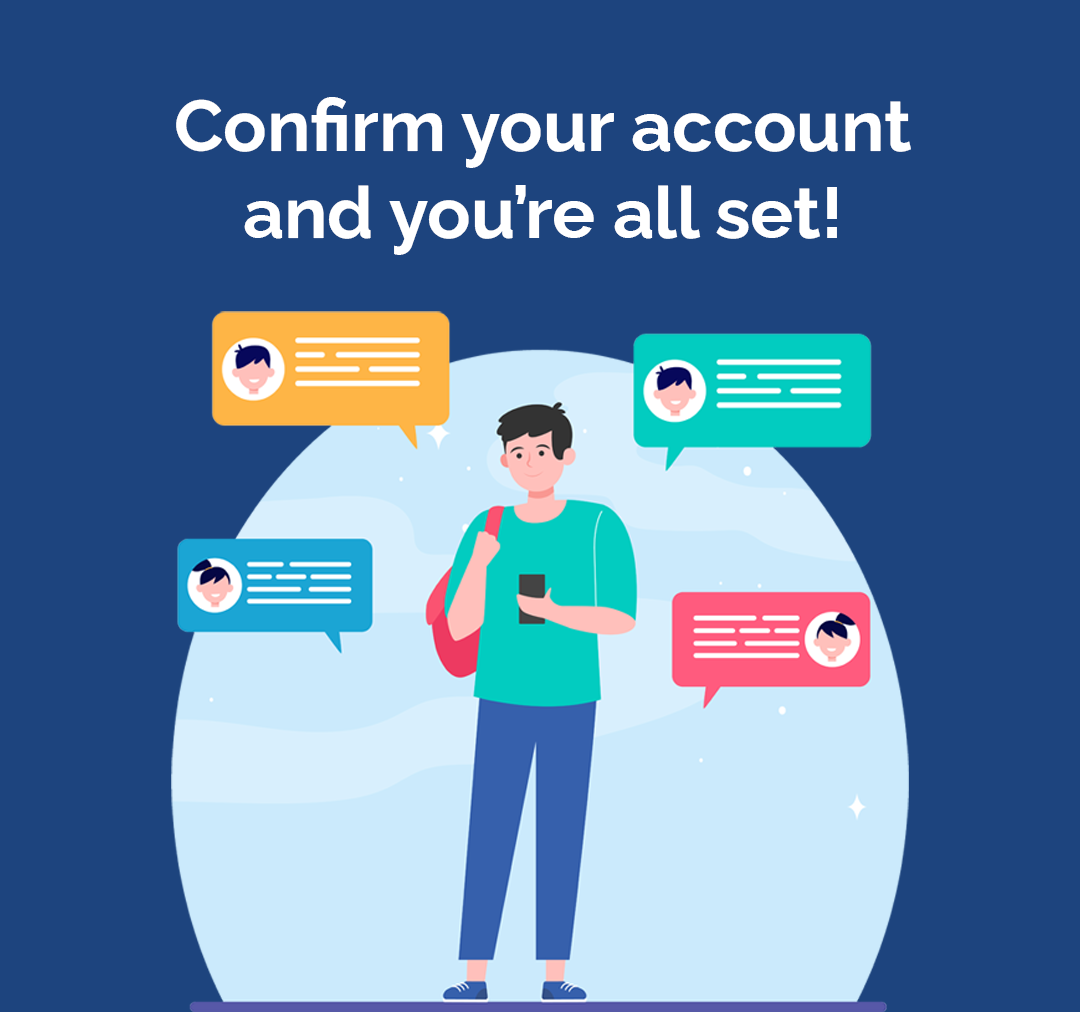
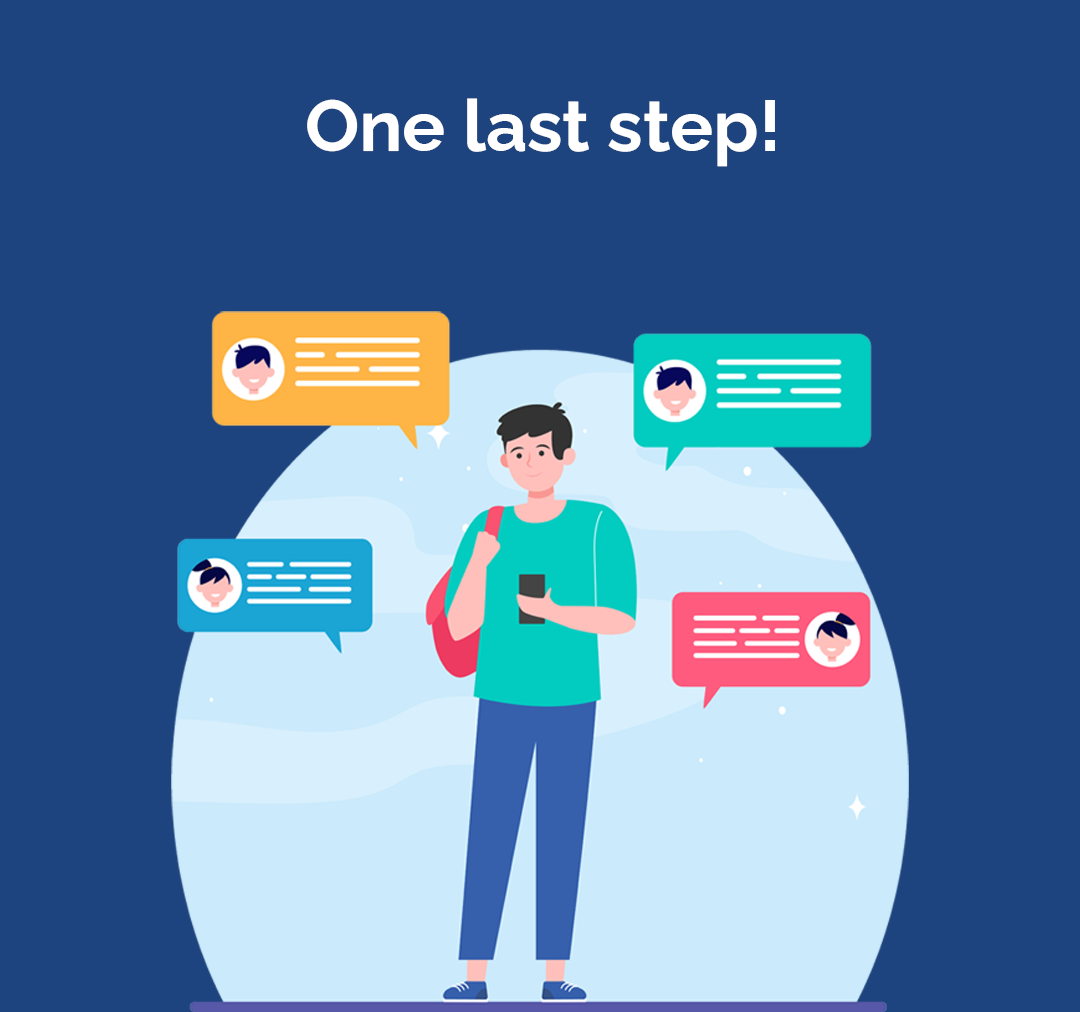
Minor Changes in Register and Confirmation

Changed region(s): [[0.1528, 0.0919, 0.8556, 0.2451]]

diff --git a/pages/register.js b/pages/register.js
@@ -264,29 +264,29 @@ export default function Register({data2}) {
               // document.getElementById('warning2').removeAttribute('hidden');
               // document.getElementById('warning1').hidden=true;
               // document.getElementById('warning3').hidden=true;
-              toastIdRef.current = toast({ position: 'top', title: 'Display Name or Email is already in used!', status: 'error', duration: 3000, isClosable: true })
+              toastIdRef.current = toast({ position: 'top', title: 'Display Name or Email is already in use.', status: 'error', duration: 3000, isClosable: true })
               return;
             }
-            if(error.response.data.message === "<p>The Display Name field cannot exceed 16 characters.</p>\n<p>The Email field must contain a valid email address.</p>\n"){
-              toastIdRef.current = toast({ position: 'top', title: 'Display Name must not exceed 16 characters! Please enter a valid email address!', status: 'error', duration: 3000, isClosable: true })
-              return;
-            }
+            // if(error.response.data.message === "<p>The Display Name field cannot exceed 16 characters.</p>\n<p>The Email field must contain a valid email address.</p>\n"){
+            //   toastIdRef.current = toast({ position: 'top', title: 'Display Name must not exceed 16 characters! Please enter a valid email address!', status: 'error', duration: 3000, isClosable: true })
+            //   return;
+            // }
             if(error.response.data.message === "<p>The Email field must contain a valid email address.</p>\n"){
-              toastIdRef.current = toast({ position: 'top', title: 'Please enter a valid email address!', status: 'error', duration: 3000, isClosable: true })
+              toastIdRef.current = toast({ position: 'top', title: 'Valid email is required.', status: 'error', duration: 3000, isClosable: true })
               return;
             }
-            if(error.response.data.message === "<p>The First Name field may only contain alphabetical characters.</p>\n"){
-              toastIdRef.current = toast({ position: 'top', title: 'First Name must contain alpphabetical characters!', status: 'error', duration: 3000, isClosable: true })
-              return;
-            }
-            if(error.response.data.message === "<p>The Last Name field may only contain alphabetical characters.</p>\n"){
-              toastIdRef.current = toast({ position: 'top', title: 'Last Name must contain alpphabetical characters!', status: 'error', duration: 3000, isClosable: true })
-              return;
-            }
-            if(error.response.data.message === "<p>The First Name field may only contain alphabetical characters.</p>\n<p>The Last Name field may only contain alphabetical characters.</p>\n"){
-              toastIdRef.current = toast({ position: 'top', title: 'First Name and Last Name must contain alpphabetical characters!', status: 'error', duration: 3000, isClosable: true })
-              return;
-            }
+            // if(error.response.data.message === "<p>The First Name field may only contain alphabetical characters.</p>\n"){
+            //   toastIdRef.current = toast({ position: 'top', title: 'First Name must contain alpphabetical characters.', status: 'error', duration: 3000, isClosable: true })
+            //   return;
+            // }
+            // if(error.response.data.message === "<p>The Last Name field may only contain alphabetical characters.</p>\n"){
+            //   toastIdRef.current = toast({ position: 'top', title: 'Last Name must contain alphabetical characters.', status: 'error', duration: 3000, isClosable: true })
+            //   return;
+            // }
+            // if(error.response.data.message === "<p>The First Name field may only contain alphabetical characters.</p>\n<p>The Last Name field may only contain alphabetical characters.</p>\n"){
+            //   toastIdRef.current = toast({ position: 'top', title: 'First Name and Last Name must contain alpphabetical characters.', status: 'error', duration: 3000, isClosable: true })
+            //   return;
+            // }
         });
       }
     }

diff --git a/pages/confirmation.js b/pages/confirmation.js
@@ -81,6 +81,9 @@ export default function ConfirmationPage(){
     if(code == '') {
       toastIdRef.current = toast({ position: 'top', title: 'Verification code is required.', status: 'error', duration: 3000, isClosable: true })
     }
+    if(code.length > 6) {
+      toastIdRef.current = toast({ position: 'top', title: 'Verification code must not exceed 6 numbers.', status: 'error', duration: 3000, isClosable: true })
+    }
 
         let formData = new FormData(); 
         formData.append('verification_code', code);
@@ -109,7 +112,13 @@ export default function ConfirmationPage(){
         })
         .catch(error => {
             if(error.response.data.status == 'Wrong code'){
-              toastIdRef.current = toast({ position: 'top', title: 'Wrong Code!', description: 'Please try again.', status: 'error', duration: 3000, isClosable: true })
+              toastIdRef.current = toast({ position: 'top', title: 'Invalid code.', status: 'error', duration: 3000, isClosable: true })
+            }
+            if(error.response.data.status == 'Code expired'){
+              toastIdRef.current = toast({ position: 'top', title: 'Verification code expired. Resend another one.', status: 'error', duration: 3000, isClosable: true })
+            }
+            if(error.response.data.message === "<p>The Verification Code field must contain only numbers.</p>\n") {
+              toastIdRef.current = toast({ position: 'top', title: 'Invalid code.', status: 'error', duration: 3000, isClosable: true })
             }
             // toastIdRef.current = toast({ position: 'top', title: 'Account verification unsuccessful!', description: 'Please try again.', status: 'error', duration: 3000, isClosable: true })
             console.log(error.response);
@@ -154,7 +163,7 @@ export default function ConfirmationPage(){
     return(
       <div className={useColorModeValue(styles.container, styles.container2)}>
         <Head>
-          <title>Critique Hall | Confirm Verification</title>
+          <title>Critique Hall | Email Verification</title>
           <meta name="description" content="Generated by create next app" />
           <link rel="icon" href={useColorModeValue('/logo256.png', '/logo256-dark.png')} onLoad=""/>
           <link href="https://fonts.googleapis.com/css2?family=Raleway:wght@700&display=swap" rel="stylesheet" />
@@ -180,7 +189,7 @@ export default function ConfirmationPage(){
              alt="Critique Hall Logo"/>
             </div>
 
-            <Heading fontFamily={'Raleway'} mb={10} as="h2" size="lg" color={useColorModeValue('#1B1464','#B2A3FF')}>Confirm Verification</Heading>
+            <Heading fontFamily={'Raleway'} mb={10} as="h2" size="lg" color={useColorModeValue('#1B1464','#B2A3FF')}>Email Verification</Heading>
             {/* <p className={styles.description}>Kindly enter the verification code to verify your account</p> */}
             <center><FormControl id="forgotpassword" isRequired>
                 <Input borderColor={useColorModeValue('black', 'white')} fontWeight={'bold'} size={{lg: 'lg', base: 'sm'}} placeholder="6-Digit Code" className={styles.input_box} type="text" value={code} onChange={e => setCode(e.target.value)}/>
@@ -220,7 +229,7 @@ export default function ConfirmationPage(){
 
             <Box display="flex">
             <Text _hover={{cursor:'pointer', textDecoration: 'underline'}} fontSize={{lg: "lg", base: "sm"}} color={useColorModeValue('#1BA3C1', '#1BA3C1')} mt={5} onClick={ResendCode}>Resend Code</Text>
-            <Text _hover={{cursor:'pointer', textDecoration: 'underline'}} fontSize={{lg: "lg", base: "sm"}} color={useColorModeValue('#1BA3C1', '#1BA3C1')} ml={5} mt={5} onClick={backLogin}>Back to Login</Text>
+            {/* <Text _hover={{cursor:'pointer', textDecoration: 'underline'}} fontSize={{lg: "lg", base: "sm"}} color={useColorModeValue('#1BA3C1', '#1BA3C1')} ml={5} mt={5} onClick={backLogin}>Back to Login</Text> */}
             </Box>  
         </Box>
         </div>
